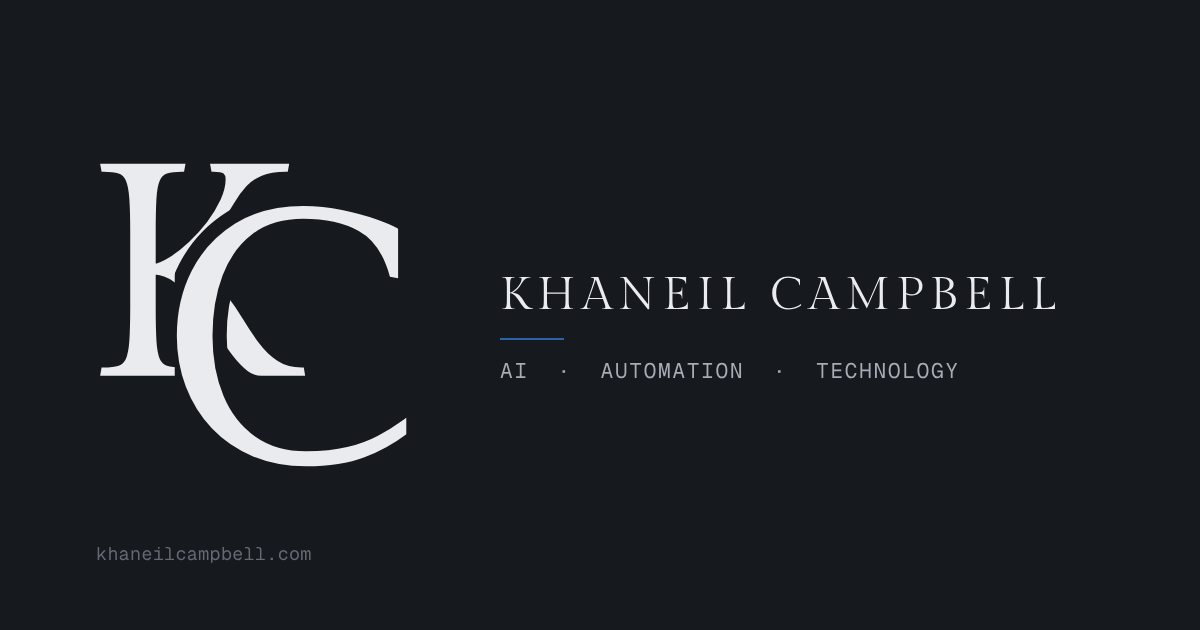
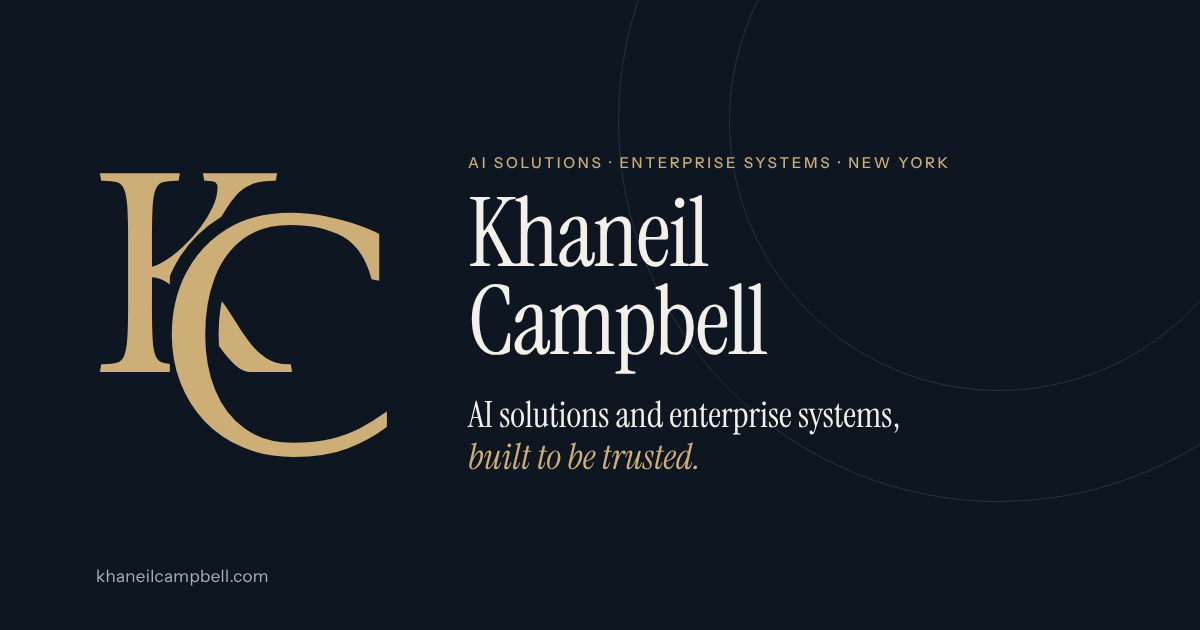
Final QA fixes: aria regression, copy rules, brand link preview (#32)
* Final QA fixes: aria regression, copy rules, brand link preview

- Restore aria-labelledby (the "labeled" spelling change in #31 broke it
  on the pipeline and contact pages; axe flagged aria-valid-attr)
- Remove five serial commas and one UK spelling (artefact)
- Link preview image rebuilt in the Atelier palette: brass monogram,
  Instrument Serif name and the site tagline; alt text updated
- Pipeline meta description trimmed to 158 characters
- Next case study arrows no longer wrap alone; tighter line height

Claude-Session: https://claude.ai/code/session_016q8Ze1dXBkDk5ngAYPUjxX

* Remove ITIL 4 renewal window copy

Claude-Session: https://claude.ai/code/session_016q8Ze1dXBkDk5ngAYPUjxX

---------

diff --git a/itil4.html b/itil4.html
@@ -8,20 +8,20 @@
 <meta name="theme-color" content="#0E1622">
 <meta name="robots" content="index, follow">
 <title>ITIL 4 Foundation | Khaneil Campbell</title>
-<meta name="description" content="ITIL 4 Foundation passed April 2023: service value chain, four dimensions and guiding principles. The renewal window closed April 2026.">
+<meta name="description" content="ITIL 4 Foundation passed April 2023: service value chain, four dimensions and guiding principles..">
 
 <meta property="og:type" content="website">
 <meta property="og:url" content="https://khaneilcampbell.com/itil4.html">
 <meta property="og:title" content="ITIL 4 Foundation | Khaneil Campbell">
-<meta property="og:description" content="ITIL 4 Foundation passed April 2023: service value chain, four dimensions and guiding principles. The renewal window closed April 2026.">
+<meta property="og:description" content="ITIL 4 Foundation passed April 2023: service value chain, four dimensions and guiding principles..">
 <meta property="og:image" content="https://khaneilcampbell.com/images/brand/og-image.png">
 <meta property="og:image:width" content="1200">
 <meta property="og:image:height" content="630">
-<meta property="og:image:alt" content="KC monogram with the name Khaneil Campbell">
+<meta property="og:image:alt" content="Brass KC monogram beside the name Khaneil Campbell and the line AI solutions and enterprise systems, built to be trusted">
 <meta property="og:site_name" content="Khaneil Campbell">
 <meta name="twitter:card" content="summary_large_image">
 <meta name="twitter:title" content="ITIL 4 Foundation | Khaneil Campbell">
-<meta name="twitter:description" content="ITIL 4 Foundation passed April 2023: service value chain, four dimensions and guiding principles. The renewal window closed April 2026.">
+<meta name="twitter:description" content="ITIL 4 Foundation passed April 2023: service value chain, four dimensions and guiding principles..">
 <meta name="twitter:image" content="https://khaneilcampbell.com/images/brand/og-image.png">
 <link rel="canonical" href="https://khaneilcampbell.com/itil4.html">
 <link rel="icon" href="/favicon.ico" sizes="32x32">
@@ -31,7 +31,7 @@
 
 <link rel="preload" href="assets/fonts/instrument-serif-latin.woff2" as="font" type="font/woff2" crossorigin>
 <link rel="preload" href="assets/fonts/instrument-sans-latin.woff2" as="font" type="font/woff2" crossorigin>
-<link rel="stylesheet" href="assets/site.css?v=760f508a">
+<link rel="stylesheet" href="assets/site.css?v=8e585d3a">
 <script src="assets/site.js?v=3c166de2" defer></script>
 <script type="application/ld+json">
 {
@@ -98,16 +98,16 @@
     <div class="wrap">
       <p class="eyebrow">Credential · Service management</p>
       <h1>ITIL 4 Foundation</h1>
-      <p class="lede">The IT service management framework: service value chain, the four dimensions model, guiding principles and continual improvement. Passed April 2023; the three-year renewal window has since closed.</p>
+      <p class="lede">The IT service management framework: service value chain, the four dimensions model, guiding principles and continual improvement. Passed April 2023.</p>
     </div>
   </section>
   <div class="wrap">
     <div class="cred">
-      <dl><div><dt>Holder</dt><dd>Khaneil Campbell</dd></div><div><dt>Certified</dt><dd>April 23, 2023</dd></div><div><dt>Credential ID</dt><dd>GR671511333KC</dd></div><div><dt>Renew by</dt><dd>April 23, 2026</dd></div><div><dt>Status</dt><dd>Renewal not completed</dd></div></dl>
-      <div class="prose"><p>ITIL is the part of the job that decides whether a support function is a queue or a service. Prioritization, escalation, knowledge management and change handling all get better when everyone agrees on the same definitions, and worse when they do not.</p><p>It shows up in how the <a href="labs.html">labs</a> are documented: the write-up is part of the deliverable. That habit outlasted the renewal window.</p></div>
+      <dl><div><dt>Holder</dt><dd>Khaneil Campbell</dd></div><div><dt>Certified</dt><dd>April 23, 2023</dd></div><div><dt>Credential ID</dt><dd>GR671511333KC</dd></div></dl>
+      <div class="prose"><p>ITIL is the part of the job that decides whether a support function is a queue or a service. Prioritization, escalation, knowledge management and change handling all get better when everyone agrees on the same definitions, and worse when they do not.</p><p>It shows up in how the <a href="labs.html">labs</a> are documented: the write-up is part of the deliverable.</p></div>
     </div>
-    <section class="cert"><figure><img src="images/itil-4.jpg" alt="ITIL 4 Foundation certificate issued to Khaneil Campbell" width="595" height="841" loading="lazy" decoding="async"><figcaption>Effective from April 23, 2023 · renew by April 23, 2026</figcaption></figure></section>
-    <a class="nextc" href="hdi-kcs.html"><span class="eyebrow">Also certified</span><b>HDI KCS Foundation →</b></a>
+    <section class="cert"><figure><img src="images/itil-4.jpg" alt="ITIL 4 Foundation certificate issued to Khaneil Campbell" width="595" height="841" loading="lazy" decoding="async"><figcaption>Effective from April 23, 2023</figcaption></figure></section>
+    <a class="nextc" href="hdi-kcs.html"><span class="eyebrow">Also certified</span><b>HDI KCS Foundation&nbsp;→</b></a>
   </div>
 </main>
 <footer class="foot night">

diff --git a/lab-details.html b/lab-details.html
@@ -17,7 +17,7 @@
 <meta property="og:image" content="https://khaneilcampbell.com/images/brand/og-image.png">
 <meta property="og:image:width" content="1200">
 <meta property="og:image:height" content="630">
-<meta property="og:image:alt" content="KC monogram with the name Khaneil Campbell">
+<meta property="og:image:alt" content="Brass KC monogram beside the name Khaneil Campbell and the line AI solutions and enterprise systems, built to be trusted">
 <meta property="og:site_name" content="Khaneil Campbell">
 <meta name="twitter:card" content="summary_large_image">
 <meta name="twitter:title" content="Lab Case Files | Khaneil Campbell">
@@ -31,7 +31,7 @@
 
 <link rel="preload" href="assets/fonts/instrument-serif-latin.woff2" as="font" type="font/woff2" crossorigin>
 <link rel="preload" href="assets/fonts/instrument-sans-latin.woff2" as="font" type="font/woff2" crossorigin>
-<link rel="stylesheet" href="assets/site.css?v=760f508a">
+<link rel="stylesheet" href="assets/site.css?v=8e585d3a">
 <script src="assets/site.js?v=3c166de2" defer></script>
 <script type="application/ld+json">
 {
@@ -103,11 +103,11 @@
   </section>
   <div class="wrap">
     <div class="files sec-top">
-      <article class="file reveal" id="log-analysis"><div><p class="meta"><span>File 01</span><span class="tag live">Published</span></p><h2>Authentication log analysis</h2><p class="sum">Windows Security Event Logs ingested into Splunk, SPL detection queries, and a structured analyst response with documented triage decisions and a measurable outcome.</p></div><div><dl><div><dt>Scenario</dt><dd>Repeated failed logons suggest credential-attack behavior against Windows accounts.</dd></div><div><dt>Telemetry</dt><dd>Windows Security logs reviewed and normalized inside Splunk.</dd></div><div><dt>Evidence</dt><dd>80+ failed logon attempts identified within a defined time window.</dd></div><div><dt>Workflow</dt><dd>Ingest, detect, triage, respond: each step produces what the next depends on.</dd></div></dl><a class="more" href="soc-automation-lab.html">Open the full case study →</a></div></article>
+      <article class="file reveal" id="log-analysis"><div><p class="meta"><span>File 01</span><span class="tag live">Published</span></p><h2>Authentication log analysis</h2><p class="sum">Windows Security Event Logs ingested into Splunk, SPL detection queries and a structured analyst response with documented triage decisions and a measurable outcome.</p></div><div><dl><div><dt>Scenario</dt><dd>Repeated failed logons suggest credential-attack behavior against Windows accounts.</dd></div><div><dt>Telemetry</dt><dd>Windows Security logs reviewed and normalized inside Splunk.</dd></div><div><dt>Evidence</dt><dd>80+ failed logon attempts identified within a defined time window.</dd></div><div><dt>Workflow</dt><dd>Ingest, detect, triage, respond: each step produces what the next depends on.</dd></div></dl><a class="more" href="soc-automation-lab.html">Open the full case study →</a></div></article>
       <article class="file reveal" id="phishing"><div><p class="meta"><span>File 02</span><span class="tag">In progress</span></p><h2>Phishing response walkthrough</h2><p class="sum">A phishing-to-malware chain from the initial user report through host-based indicator analysis, containment decisions and structured incident documentation.</p></div><div><dl><div><dt>Scenario</dt><dd>A user reports a suspicious email, then the host starts behaving unusually.</dd></div><div><dt>Telemetry</dt><dd>Host process review, Windows Event Logs, endpoint investigation notes.</dd></div><div><dt>Evidence goal</dt><dd>A timeline linking delivery, execution, persistence and containment.</dd></div><div><dt>Workflow</dt><dd>Report, analyze, contain, report out.</dd></div></dl></div></article>
       <article class="file reveal" id="iam"><div><p class="meta"><span>File 03</span><span class="tag">In progress</span></p><h2>Access control workflows</h2><p class="sum">Operational identity scenarios: access review, MFA enforcement, account lifecycle, privileged access and least privilege in day-to-day support work.</p></div><div><dl><div><dt>Scenario</dt><dd>An access or recovery request needs validating before anyone approves it.</dd></div><div><dt>Telemetry</dt><dd>Directory attributes, group membership, MFA state and request context.</dd></div><div><dt>Evidence goal</dt><dd>Least privilege enforced, and approvals that hold up under pressure.</dd></div><div><dt>Workflow</dt><dd>Request, verify, control, record.</dd></div></dl></div></article>
     </div>
-    <a class="nextc" href="labs.html"><span class="eyebrow">Back to</span><b>The labs →</b></a>
+    <a class="nextc" href="labs.html"><span class="eyebrow">Back to</span><b>The labs&nbsp;→</b></a>
   </div>
 </main>
 <footer class="foot night">

diff --git a/commerce-pipeline.html b/commerce-pipeline.html
@@ -8,20 +8,20 @@
 <meta name="theme-color" content="#0E1622">
 <meta name="robots" content="index, follow">
 <title>Multi-Agent Commerce Pipeline | Khaneil Campbell</title>
-<meta name="description" content="Case study: CrewAI agents on Claude research, design and publish products to Shopify from a Linux VPS, with credential scanning, preflight validation and publish limits.">
+<meta name="description" content="Case study: CrewAI agents on Claude research, design and publish Shopify products from a Linux VPS, behind secret scanning, preflight checks and publish caps.">
 
 <meta property="og:type" content="article">
 <meta property="og:url" content="https://khaneilcampbell.com/commerce-pipeline.html">
 <meta property="og:title" content="Multi-Agent Commerce Pipeline | Khaneil Campbell">
-<meta property="og:description" content="Case study: CrewAI agents on Claude research, design and publish products to Shopify from a Linux VPS, with credential scanning, preflight validation and publish limits.">
+<meta property="og:description" content="Case study: CrewAI agents on Claude research, design and publish Shopify products from a Linux VPS, behind secret scanning, preflight checks and publish caps.">
 <meta property="og:image" content="https://khaneilcampbell.com/images/brand/og-image.png">
 <meta property="og:image:width" content="1200">
 <meta property="og:image:height" content="630">
-<meta property="og:image:alt" content="KC monogram with the name Khaneil Campbell">
+<meta property="og:image:alt" content="Brass KC monogram beside the name Khaneil Campbell and the line AI solutions and enterprise systems, built to be trusted">
 <meta property="og:site_name" content="Khaneil Campbell">
 <meta name="twitter:card" content="summary_large_image">
 <meta name="twitter:title" content="Multi-Agent Commerce Pipeline | Khaneil Campbell">
-<meta name="twitter:description" content="Case study: CrewAI agents on Claude research, design and publish products to Shopify from a Linux VPS, with credential scanning, preflight validation and publish limits.">
+<meta name="twitter:description" content="Case study: CrewAI agents on Claude research, design and publish Shopify products from a Linux VPS, behind secret scanning, preflight checks and publish caps.">
 <meta name="twitter:image" content="https://khaneilcampbell.com/images/brand/og-image.png">
 <link rel="canonical" href="https://khaneilcampbell.com/commerce-pipeline.html">
 <link rel="icon" href="/favicon.ico" sizes="32x32">
@@ -31,7 +31,7 @@
 
 <link rel="preload" href="assets/fonts/instrument-serif-latin.woff2" as="font" type="font/woff2" crossorigin>
 <link rel="preload" href="assets/fonts/instrument-sans-latin.woff2" as="font" type="font/woff2" crossorigin>
-<link rel="stylesheet" href="assets/site.css?v=760f508a">
+<link rel="stylesheet" href="assets/site.css?v=8e585d3a">
 <script src="assets/site.js?v=3c166de2" defer></script>
 
 </head>
@@ -66,7 +66,7 @@
       <div><p class="eyebrow">Result</p><p>Seven of seven phases tested. Live publishing next.</p></div>
     </div>
 
-    <section class="brief reveal" aria-labeledby="brief-h">
+    <section class="brief reveal" aria-labelledby="brief-h">
       <div class="brief-head"><p class="eyebrow">The 30-second version</p><h2 id="brief-h">What I built, <em>at a glance.</em></h2></div>
       <figure class="arch">
         <ol class="arch-flow" aria-label="Pipeline architecture, in order">
@@ -178,7 +178,7 @@ test_seo_analyzer.py::test_analyze_applies_cleanup_only_tag_changes <span class=
 
     <p class="pull reveal">“The interesting engineering is not the AI. It is everything around it that <em>makes the AI worth trusting.</em>”</p>
 
-    <a class="nextc" href="soc-automation-lab.html"><span class="eyebrow">Next case study</span><b>SOC brute-force detection lab →</b></a>
+    <a class="nextc" href="soc-automation-lab.html"><span class="eyebrow">Next case study</span><b>SOC brute-force detection lab&nbsp;→</b></a>
   </div>
 </main>
 <footer class="foot night">

diff --git a/soc-automation-lab.html b/soc-automation-lab.html
@@ -17,7 +17,7 @@
 <meta property="og:image" content="https://khaneilcampbell.com/images/brand/og-image.png">
 <meta property="og:image:width" content="1200">
 <meta property="og:image:height" content="630">
-<meta property="og:image:alt" content="KC monogram with the name Khaneil Campbell">
+<meta property="og:image:alt" content="Brass KC monogram beside the name Khaneil Campbell and the line AI solutions and enterprise systems, built to be trusted">
 <meta property="og:site_name" content="Khaneil Campbell">
 <meta name="twitter:card" content="summary_large_image">
 <meta name="twitter:title" content="SOC Brute-Force Detection Lab | Khaneil Campbell">
@@ -31,7 +31,7 @@
 
 <link rel="preload" href="assets/fonts/instrument-serif-latin.woff2" as="font" type="font/woff2" crossorigin>
 <link rel="preload" href="assets/fonts/instrument-sans-latin.woff2" as="font" type="font/woff2" crossorigin>
-<link rel="stylesheet" href="assets/site.css?v=760f508a">
+<link rel="stylesheet" href="assets/site.css?v=8e585d3a">
 <script src="assets/site.js?v=3c166de2" defer></script>
 <script type="application/ld+json">
 {
@@ -111,7 +111,7 @@
 
     <div class="story reveal">
       <h2>The <em>problem</em></h2>
-      <div class="txt"><p>Failed logons are constant in any Windows estate. Most are a mistyped credential; a few are not. The goal was to find the difference reliably: identify anomalous authentication patterns, cut alert fatigue through threshold tuning, and turn raw event data into a structured, repeatable response.</p><p>It is deliberately unglamorous work. The value is in the write-up: anyone picking this up later should be able to rebuild the query, understand why the threshold sits where it does, and follow the same triage path.</p></div>
+      <div class="txt"><p>Failed logons are constant in any Windows estate. Most are a mistyped credential; a few are not. The goal was to find the difference reliably: identify anomalous authentication patterns, cut alert fatigue through threshold tuning and turn raw event data into a structured, repeatable response.</p><p>It is deliberately unglamorous work. The value is in the write-up: anyone picking this up later should be able to rebuild the query, understand why the threshold sits where it does and follow the same triage path.</p></div>
     </div>
     <div class="story reveal">
       <h2>My <em>role</em></h2>
@@ -145,13 +145,13 @@
     <div class="story reveal">
       <h2>The <em>results</em></h2>
       <div class="txt">
-        <div class="bignums"><div><b>80+</b><span>failed logons isolated in a defined window</span></div><div><b>4</b><span>workflow steps, each producing an artefact</span></div><div><b>1</b><span>threshold alert tuned against noise</span></div><div><b>1</b><span>documented, repeatable triage path</span></div></div>
+        <div class="bignums"><div><b>80+</b><span>failed logons isolated in a defined window</span></div><div><b>4</b><span>workflow steps, each producing an artifact</span></div><div><b>1</b><span>threshold alert tuned against noise</span></div><div><b>1</b><span>documented, repeatable triage path</span></div></div>
         <p class="small-note">The two labs that follow this one are in progress and indexed in the <a href="lab-details.html">case files</a>.</p>
         <div class="actions small-note"><a class="btn dark" href="https://github.com/khancam15/soc-automation-splunk-bruteforce-lab" target="_blank" rel="noopener noreferrer">View the repository <i aria-hidden="true">↗</i></a></div>
       </div>
     </div>
 
-    <a class="nextc" href="commerce-pipeline.html"><span class="eyebrow">Next case study</span><b>Multi-agent commerce pipeline →</b></a>
+    <a class="nextc" href="commerce-pipeline.html"><span class="eyebrow">Next case study</span><b>Multi-agent commerce pipeline&nbsp;→</b></a>
   </div>
 </main>
 <footer class="foot night">

diff --git a/projects.html b/projects.html
@@ -17,7 +17,7 @@
 <meta property="og:image" content="https://khaneilcampbell.com/images/brand/og-image.png">
 <meta property="og:image:width" content="1200">
 <meta property="og:image:height" content="630">
-<meta property="og:image:alt" content="KC monogram with the name Khaneil Campbell">
+<meta property="og:image:alt" content="Brass KC monogram beside the name Khaneil Campbell and the line AI solutions and enterprise systems, built to be trusted">
 <meta property="og:site_name" content="Khaneil Campbell">
 <meta name="twitter:card" content="summary_large_image">
 <meta name="twitter:title" content="Work: AI Systems and Security Labs | Khaneil Campbell">
@@ -31,7 +31,7 @@
 
 <link rel="preload" href="assets/fonts/instrument-serif-latin.woff2" as="font" type="font/woff2" crossorigin>
 <link rel="preload" href="assets/fonts/instrument-sans-latin.woff2" as="font" type="font/woff2" crossorigin>
-<link rel="stylesheet" href="assets/site.css?v=760f508a">
+<link rel="stylesheet" href="assets/site.css?v=8e585d3a">
 <script src="assets/site.js?v=3c166de2" defer></script>
 <script type="application/ld+json">
 {
@@ -102,7 +102,7 @@
       <a class="witem reveal" href="lab-details.html#phishing"><div class="cover"><svg viewBox="0 0 800 600" preserveAspectRatio="xMidYMid slice" fill="none" aria-hidden="true"><rect width="800" height="600" fill="#16202E"/><g stroke="#F3F0EA" stroke-opacity=".22"><rect x="220" y="180" width="360" height="240" rx="6"/><path d="M220 186 L400 320 L580 186"/></g><path d="M400 320 L400 520" stroke="#CDAE76" stroke-dasharray="4 8"/><circle cx="400" cy="320" r="8" fill="#CDAE76"/></svg></div><div class="meta"><span>03 · Security</span><span class="tag">In progress</span></div><h2 class="h3">Phishing response walkthrough</h2><p>Incident handling under incomplete information, and a written record that survives review.</p></a>
       <a class="witem reveal" href="lab-details.html#iam"><div class="cover"><svg viewBox="0 0 800 600" preserveAspectRatio="xMidYMid slice" fill="none" aria-hidden="true"><rect width="800" height="600" fill="#1A2433"/><g stroke="#F3F0EA" stroke-opacity=".2"><path d="M300 420V260a100 100 0 0 1 200 0v160"/><rect x="260" y="300" width="280" height="200" rx="10"/></g><circle cx="400" cy="380" r="16" stroke="#CDAE76" stroke-width="1.4"/><path d="M400 396v40" stroke="#CDAE76" stroke-width="1.4"/></svg></div><div class="meta"><span>04 · Security</span><span class="tag">In progress</span></div><h2 class="h3">Access control workflows</h2><p>Identity governance in Active Directory: MFA, least privilege and the pressure to make exceptions.</p></a>
     </div>
-    <div class="crossnav"><a href="labs.html"><span class="eyebrow">How the labs are written</span><br><b>The lab standard →</b></a><a href="lab-details.html"><span class="eyebrow">Every lab, expanded</span><br><b>Case files →</b></a></div>
+    <div class="crossnav"><a href="labs.html"><span class="eyebrow">How the labs are written</span><br><b>The lab standard&nbsp;→</b></a><a href="lab-details.html"><span class="eyebrow">Every lab, expanded</span><br><b>Case files&nbsp;→</b></a></div>
   </div>
 </main>
 <footer class="foot night">

diff --git a/hdi-kcs.html b/hdi-kcs.html
@@ -17,7 +17,7 @@
 <meta property="og:image" content="https://khaneilcampbell.com/images/brand/og-image.png">
 <meta property="og:image:width" content="1200">
 <meta property="og:image:height" content="630">
-<meta property="og:image:alt" content="KC monogram with the name Khaneil Campbell">
+<meta property="og:image:alt" content="Brass KC monogram beside the name Khaneil Campbell and the line AI solutions and enterprise systems, built to be trusted">
 <meta property="og:site_name" content="Khaneil Campbell">
 <meta name="twitter:card" content="summary_large_image">
 <meta name="twitter:title" content="HDI KCS Foundation | Khaneil Campbell">
@@ -31,7 +31,7 @@
 
 <link rel="preload" href="assets/fonts/instrument-serif-latin.woff2" as="font" type="font/woff2" crossorigin>
 <link rel="preload" href="assets/fonts/instrument-sans-latin.woff2" as="font" type="font/woff2" crossorigin>
-<link rel="stylesheet" href="assets/site.css?v=760f508a">
+<link rel="stylesheet" href="assets/site.css?v=8e585d3a">
 <script src="assets/site.js?v=3c166de2" defer></script>
 <script type="application/ld+json">
 {
@@ -98,7 +98,7 @@
     <div class="wrap">
       <p class="eyebrow">Credential · Knowledge management</p>
       <h1>HDI KCS Foundation</h1>
-      <p class="lede">Knowledge-Centered Service: capturing what support teams learn while they solve issues, structuring it so it can be found, and improving it every time it is reused.</p>
+      <p class="lede">Knowledge-Centered Service: capturing what support teams learn while they solve issues, structuring it so it can be found and improving it every time it is reused.</p>
     </div>
   </section>
   <div class="wrap">
@@ -107,7 +107,7 @@
       <div class="prose"><p>KCS treats knowledge as a by-product of solving problems, not a separate writing project. The article gets written or improved in the moment a technician resolves an issue, in the words customers actually use, and its quality is judged by whether the next person finds it and fixes the problem faster.</p><p>That is the habit behind the knowledge base articles I write at Columbia University, and behind the way every <a href="labs.html">lab</a> on this site is documented: the steps, the evidence and the dead ends, written so someone else can repeat them.</p></div>
     </div>
     <section class="cert"><figure><img src="images/hdi-kcs-cert.jpg" alt="HDI KCS Foundation certificate of achievement issued to Khaneil Campbell" width="1125" height="793" loading="lazy" decoding="async"><figcaption>Granted August 15, 2023 · certificate ID C41145</figcaption></figure></section>
-    <a class="nextc" href="hdi-csr.html"><span class="eyebrow">Also certified</span><b>HDI Customer Service Representative →</b></a>
+    <a class="nextc" href="hdi-csr.html"><span class="eyebrow">Also certified</span><b>HDI Customer Service Representative&nbsp;→</b></a>
   </div>
 </main>
 <footer class="foot night">

diff --git a/labs.html b/labs.html
@@ -17,7 +17,7 @@
 <meta property="og:image" content="https://khaneilcampbell.com/images/brand/og-image.png">
 <meta property="og:image:width" content="1200">
 <meta property="og:image:height" content="630">
-<meta property="og:image:alt" content="KC monogram with the name Khaneil Campbell">
+<meta property="og:image:alt" content="Brass KC monogram beside the name Khaneil Campbell and the line AI solutions and enterprise systems, built to be trusted">
 <meta property="og:site_name" content="Khaneil Campbell">
 <meta name="twitter:card" content="summary_large_image">
 <meta name="twitter:title" content="Labs | Khaneil Campbell">
@@ -31,7 +31,7 @@
 
 <link rel="preload" href="assets/fonts/instrument-serif-latin.woff2" as="font" type="font/woff2" crossorigin>
 <link rel="preload" href="assets/fonts/instrument-sans-latin.woff2" as="font" type="font/woff2" crossorigin>
-<link rel="stylesheet" href="assets/site.css?v=760f508a">
+<link rel="stylesheet" href="assets/site.css?v=8e585d3a">
 <script src="assets/site.js?v=3c166de2" defer></script>
 <script type="application/ld+json">
 {
@@ -104,14 +104,14 @@
   </div>
   <section class="sec">
     <div class="wrap">
-      <div class="shead"><div><p class="eyebrow">Case standard</p><h2>Four questions, <em>every lab.</em></h2></div><p>What happened, what evidence proves it, how should someone respond, and how does this become repeatable? Anything that cannot answer all four stays marked in progress.</p></div>
+      <div class="shead"><div><p class="eyebrow">Case standard</p><h2>Four questions, <em>every lab.</em></h2></div><p>What happened, what evidence proves it, how should someone respond and how does this become repeatable? Anything that cannot answer all four stays marked in progress.</p></div>
       <ol class="steps">
         <li class="reveal"><span>Scenario</span><b>Realistic, stated</b><p>A controlled situation with enough realism to produce meaningful telemetry, with assumptions stated up front.</p></li>
         <li class="reveal"><span>Detection</span><b>Validated signal</b><p>Query logic written, the signal validated and the false-positive boundary documented.</p></li>
         <li class="reveal"><span>Triage</span><b>Findings, scoped</b><p>Raw events turned into findings with clear severity and scope, and the decision points recorded.</p></li>
         <li class="reveal"><span>Response</span><b>Repeatable</b><p>The workflow packaged so someone else can repeat and improve it.</p></li>
       </ol>
-      <a class="nextc" href="lab-details.html"><span class="eyebrow">Every lab, expanded</span><b>Case files →</b></a>
+      <a class="nextc" href="lab-details.html"><span class="eyebrow">Every lab, expanded</span><b>Case files&nbsp;→</b></a>
     </div>
   </section>
 </main>

diff --git a/hdi-csr.html b/hdi-csr.html
@@ -17,7 +17,7 @@
 <meta property="og:image" content="https://khaneilcampbell.com/images/brand/og-image.png">
 <meta property="og:image:width" content="1200">
 <meta property="og:image:height" content="630">
-<meta property="og:image:alt" content="KC monogram with the name Khaneil Campbell">
+<meta property="og:image:alt" content="Brass KC monogram beside the name Khaneil Campbell and the line AI solutions and enterprise systems, built to be trusted">
 <meta property="og:site_name" content="Khaneil Campbell">
 <meta name="twitter:card" content="summary_large_image">
 <meta name="twitter:title" content="HDI Customer Service Representative | Khaneil Campbell">
@@ -31,7 +31,7 @@
 
 <link rel="preload" href="assets/fonts/instrument-serif-latin.woff2" as="font" type="font/woff2" crossorigin>
 <link rel="preload" href="assets/fonts/instrument-sans-latin.woff2" as="font" type="font/woff2" crossorigin>
-<link rel="stylesheet" href="assets/site.css?v=760f508a">
+<link rel="stylesheet" href="assets/site.css?v=8e585d3a">
 <script src="assets/site.js?v=3c166de2" defer></script>
 
 </head>
@@ -64,7 +64,7 @@
       <div class="prose"><p>Technical skill fixes the problem; customer service decides whether the person trusts the fix. HDI&rsquo;s Customer Service Representative coursework covers the parts of support that happen around the technical work: listening for the real issue, setting expectations honestly and closing the loop.</p><p>I earned it in November 2022, a few months into supporting students, faculty and staff at Columbia University. It is the foundation the <a href="hdi-kcs.html">HDI KCS Foundation</a> builds on: resolve the issue well, then capture what was learned so the next person is faster.</p></div>
     </div>
     <section class="cert"><figure><img src="images/hdi-csr-cert.jpg" alt="HDI Customer Service Representative certificate of achievement issued to Khaneil Campbell" width="1125" height="796" loading="lazy" decoding="async"><figcaption>Granted November 15, 2022 · certificate ID C36086</figcaption></figure></section>
-    <a class="nextc" href="security-plus.html"><span class="eyebrow">Also certified</span><b>CompTIA Security+ →</b></a>
+    <a class="nextc" href="security-plus.html"><span class="eyebrow">Also certified</span><b>CompTIA Security+&nbsp;→</b></a>
   </div>
 </main>
 <footer class="foot night">

diff --git a/security-plus.html b/security-plus.html
@@ -17,7 +17,7 @@
 <meta property="og:image" content="https://khaneilcampbell.com/images/brand/og-image.png">
 <meta property="og:image:width" content="1200">
 <meta property="og:image:height" content="630">
-<meta property="og:image:alt" content="KC monogram with the name Khaneil Campbell">
+<meta property="og:image:alt" content="Brass KC monogram beside the name Khaneil Campbell and the line AI solutions and enterprise systems, built to be trusted">
 <meta property="og:site_name" content="Khaneil Campbell">
 <meta name="twitter:card" content="summary_large_image">
 <meta name="twitter:title" content="CompTIA Security+ | Khaneil Campbell">
@@ -31,7 +31,7 @@
 
 <link rel="preload" href="assets/fonts/instrument-serif-latin.woff2" as="font" type="font/woff2" crossorigin>
 <link rel="preload" href="assets/fonts/instrument-sans-latin.woff2" as="font" type="font/woff2" crossorigin>
-<link rel="stylesheet" href="assets/site.css?v=760f508a">
+<link rel="stylesheet" href="assets/site.css?v=8e585d3a">
 <script src="assets/site.js?v=3c166de2" defer></script>
 <script type="application/ld+json">
 {
@@ -107,7 +107,7 @@
       <div class="prose"><p>Security+ is where the vocabulary becomes shared. It covers enough ground that a support engineer, a systems administrator and an analyst can discuss the same incident without talking past each other, which is most of what it is useful for day to day.</p><p>The applied version is in the <a href="soc-automation-lab.html">log analysis case study</a> and the <a href="lab-details.html">lab case files</a>.</p></div>
     </div>
     <section class="cert"><figure><img src="images/security-plus-cert.jpg" alt="CompTIA Security+ certificate issued to Khaneil Campbell" width="792" height="612" loading="lazy" decoding="async"><figcaption>Issued May 12, 2025 · expires May 12, 2028</figcaption></figure></section>
-    <a class="nextc" href="itil4.html"><span class="eyebrow">Also certified</span><b>ITIL 4 Foundation →</b></a>
+    <a class="nextc" href="itil4.html"><span class="eyebrow">Also certified</span><b>ITIL 4 Foundation&nbsp;→</b></a>
   </div>
 </main>
 <footer class="foot night">

diff --git a/contact.html b/contact.html
@@ -17,7 +17,7 @@
 <meta property="og:image" content="https://khaneilcampbell.com/images/brand/og-image.png">
 <meta property="og:image:width" content="1200">
 <meta property="og:image:height" content="630">
-<meta property="og:image:alt" content="KC monogram with the name Khaneil Campbell">
+<meta property="og:image:alt" content="Brass KC monogram beside the name Khaneil Campbell and the line AI solutions and enterprise systems, built to be trusted">
 <meta property="og:site_name" content="Khaneil Campbell">
 <meta name="twitter:card" content="summary_large_image">
 <meta name="twitter:title" content="Contact | Khaneil Campbell">
@@ -31,7 +31,7 @@
 
 <link rel="preload" href="assets/fonts/instrument-serif-latin.woff2" as="font" type="font/woff2" crossorigin>
 <link rel="preload" href="assets/fonts/instrument-sans-latin.woff2" as="font" type="font/woff2" crossorigin>
-<link rel="stylesheet" href="assets/site.css?v=760f508a">
+<link rel="stylesheet" href="assets/site.css?v=8e585d3a">
 <script src="assets/site.js?v=3c166de2" defer></script>
 <script type="application/ld+json">
 {
@@ -102,7 +102,7 @@
       </div>
     </div>
   </section>
-  <section class="band-tight" aria-labeledby="open-to">
+  <section class="band-tight" aria-labelledby="open-to">
     <div class="wrap">
       <h2 class="sr-only" id="open-to">What I am open to</h2>
       <div class="beliefs">

diff --git a/index.html b/index.html
@@ -17,7 +17,7 @@
 <meta property="og:image" content="https://khaneilcampbell.com/images/brand/og-image.png">
 <meta property="og:image:width" content="1200">
 <meta property="og:image:height" content="630">
-<meta property="og:image:alt" content="KC monogram with the name Khaneil Campbell">
+<meta property="og:image:alt" content="Brass KC monogram beside the name Khaneil Campbell and the line AI solutions and enterprise systems, built to be trusted">
 <meta property="og:site_name" content="Khaneil Campbell">
 <meta name="twitter:card" content="summary_large_image">
 <meta name="twitter:title" content="Khaneil Campbell | AI Solutions and Enterprise Systems">
@@ -31,7 +31,7 @@
 
 <link rel="preload" href="assets/fonts/instrument-serif-latin.woff2" as="font" type="font/woff2" crossorigin>
 <link rel="preload" href="assets/fonts/instrument-sans-latin.woff2" as="font" type="font/woff2" crossorigin>
-<link rel="stylesheet" href="assets/site.css?v=760f508a">
+<link rel="stylesheet" href="assets/site.css?v=8e585d3a">
 <script src="assets/site.js?v=3c166de2" defer></script>
 <script type="application/ld+json">
 {

diff --git a/privacy.html b/privacy.html
@@ -17,7 +17,7 @@
 <meta property="og:image" content="https://khaneilcampbell.com/images/brand/og-image.png">
 <meta property="og:image:width" content="1200">
 <meta property="og:image:height" content="630">
-<meta property="og:image:alt" content="KC monogram with the name Khaneil Campbell">
+<meta property="og:image:alt" content="Brass KC monogram beside the name Khaneil Campbell and the line AI solutions and enterprise systems, built to be trusted">
 <meta property="og:site_name" content="Khaneil Campbell">
 <meta name="twitter:card" content="summary_large_image">
 <meta name="twitter:title" content="Privacy and Site Notice | Khaneil Campbell">
@@ -31,7 +31,7 @@
 
 <link rel="preload" href="assets/fonts/instrument-serif-latin.woff2" as="font" type="font/woff2" crossorigin>
 <link rel="preload" href="assets/fonts/instrument-sans-latin.woff2" as="font" type="font/woff2" crossorigin>
-<link rel="stylesheet" href="assets/site.css?v=760f508a">
+<link rel="stylesheet" href="assets/site.css?v=8e585d3a">
 <script src="assets/site.js?v=3c166de2" defer></script>
 <script type="application/ld+json">
 {
